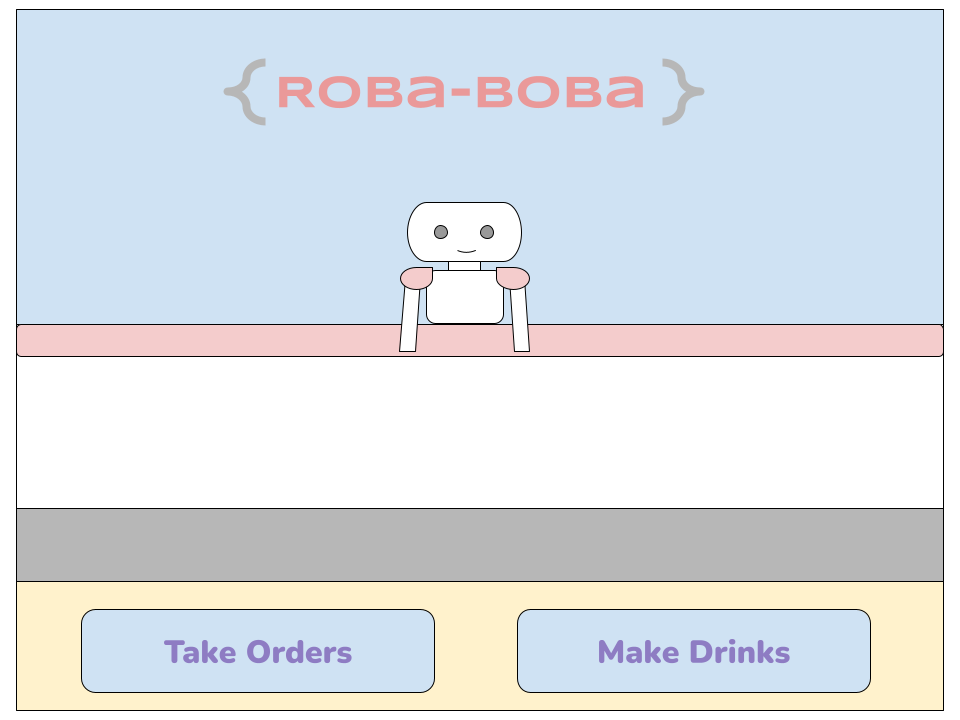
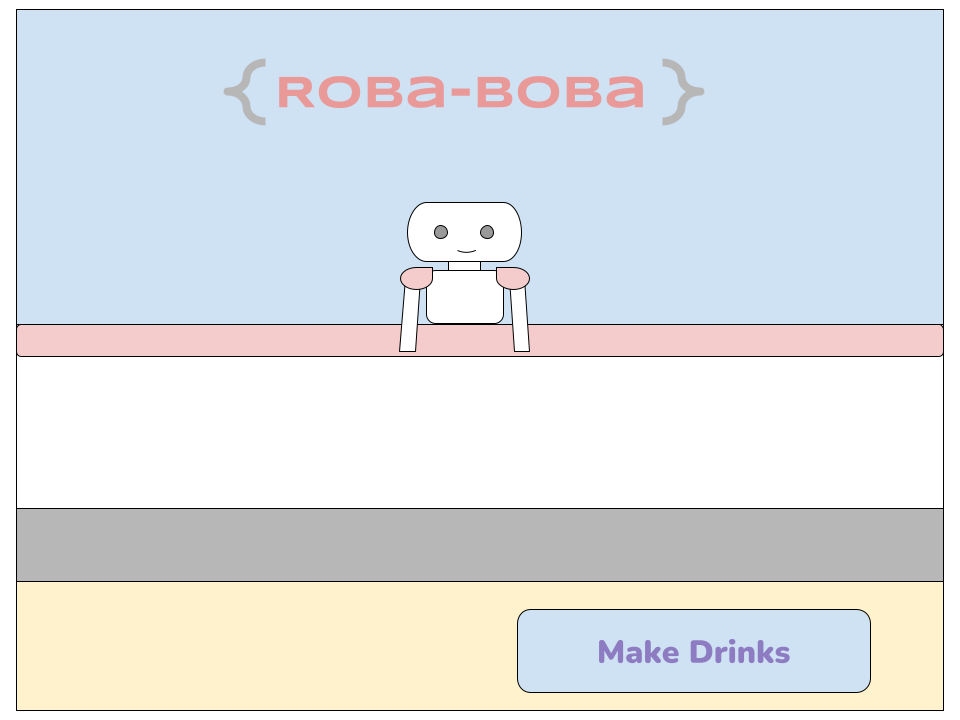
keep track of orders to make

Changed region(s): [[0.0625, 0.825, 0.4688, 0.9778]]

diff --git a/sketch.js b/sketch.js
@@ -31,6 +31,8 @@ let newOrder;
 let orderReceived;
 let orderAccepted;
 
+let orderCount = 0;
+
 function preload(){
   honey = loadImage('graphics/Honey.png');
   matcha = loadImage('graphics/Matcha Powder.png');
@@ -235,6 +237,12 @@ function play() {
   imageMode(CENTER);
   image(cafe, width/2, height/2, 800, 600);
 
+  // Order count
+  noStroke();
+  fill(0);
+  textSize(24);
+  text("Order count: " + orderCount, width/2 - 330, height/2 + 250);
+
   enterCustomer();
 
   // Quit Button
@@ -264,6 +272,7 @@ function play() {
   // If time up, switch to score screen
   if (timer == 0) {
     mode = 3;
+    orderCount = 0;
   }
 }
 
@@ -388,13 +397,16 @@ function mouseClicked() {
     ){
       mode = 3;
       timer = 300;
+      orderCount = 0;
     } else if(
       mouseX >= cX - 50 &&
       mouseX <= cX + 50 &&
       mouseY >= cY - 140 &&
       mouseY <= cY + 0
     ) {
-      console.log("CLICKED");
+      if(!orderAccepted){
+        orderCount++;
+      }
       orderAccepted = true;
     }
   } else if (mode == 3){
